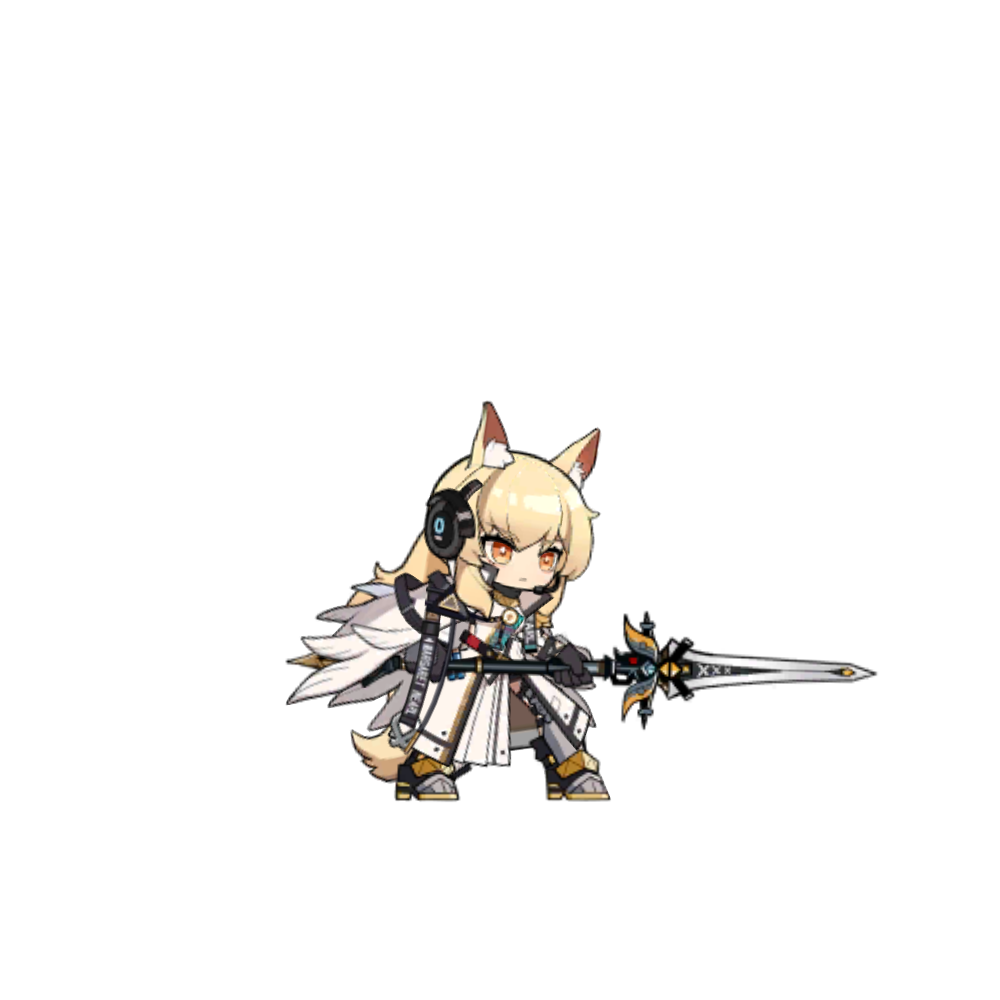
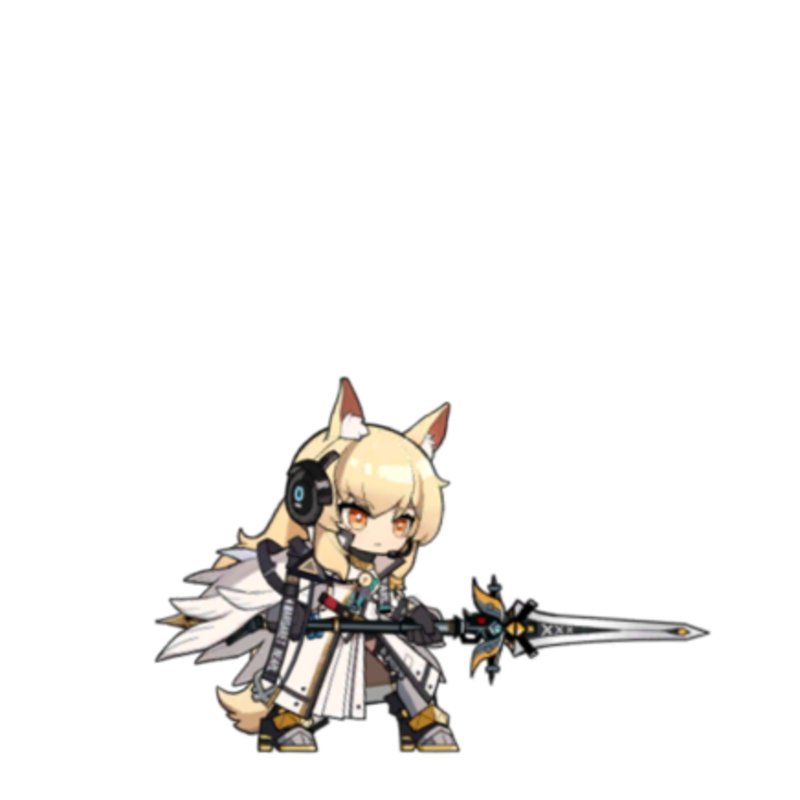
add：增加背影资源；修复战斗小人位置

Changed region(s): [[0.1875, 0.4062, 0.9062, 0.9688]]

diff --git a/src/main/java/nearlmod/characters/Nearl.java b/src/main/java/nearlmod/characters/Nearl.java
@@ -32,7 +32,7 @@ import java.util.ArrayList;
 public class Nearl extends CustomPlayer {
     private static final Color NearlGold = CardHelper.getColor(255, 236, 194);
     public static final String TACHI = "images/char/tachi.png";
-    public static final String SHOULDER = "images/char/tachi.png";
+    public static final String SHOULDER = "images/char/shoulder.png";
     public static final String CORPSE = "images/char/corpse.png";
     public static final String[] orbTextures = {
         "images/char/orb/layer1.png",
